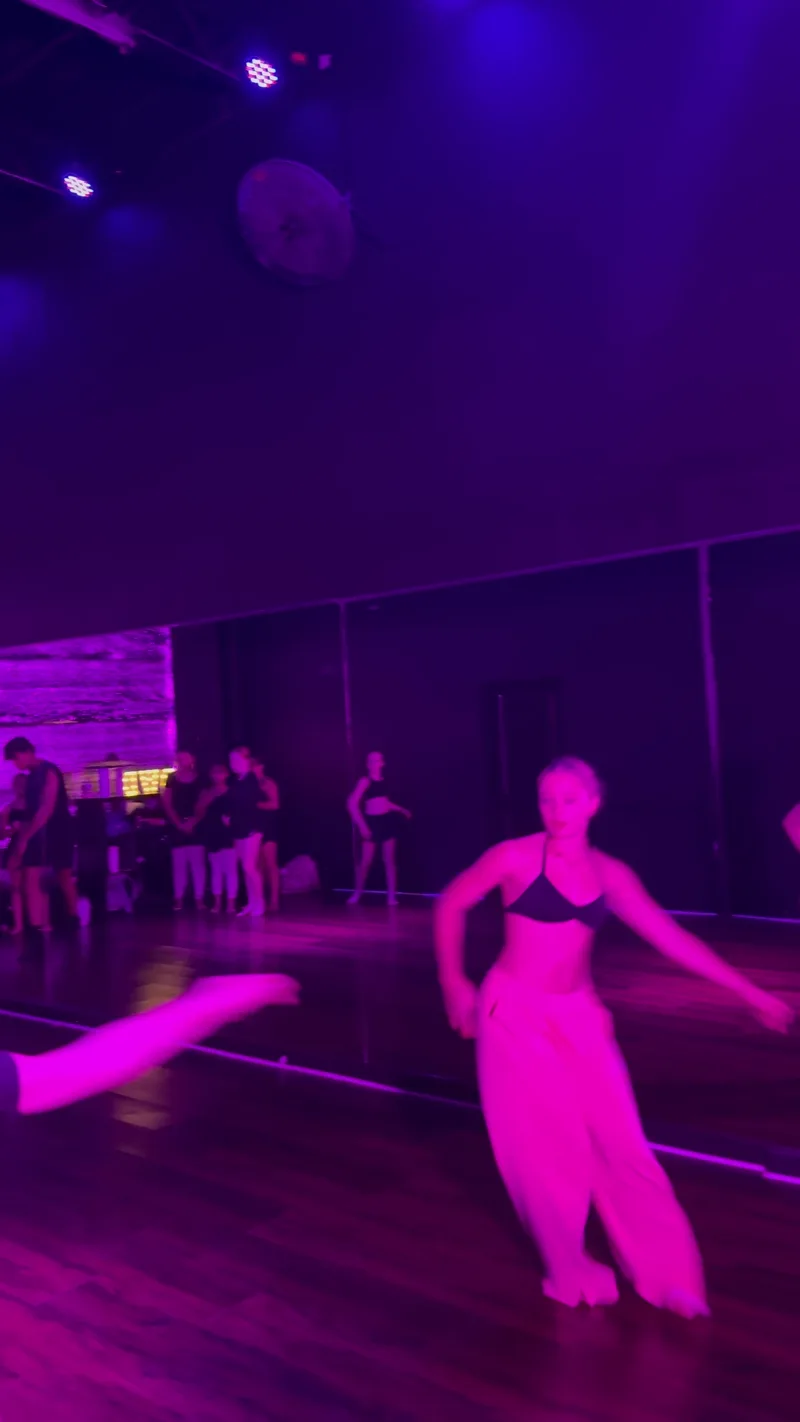
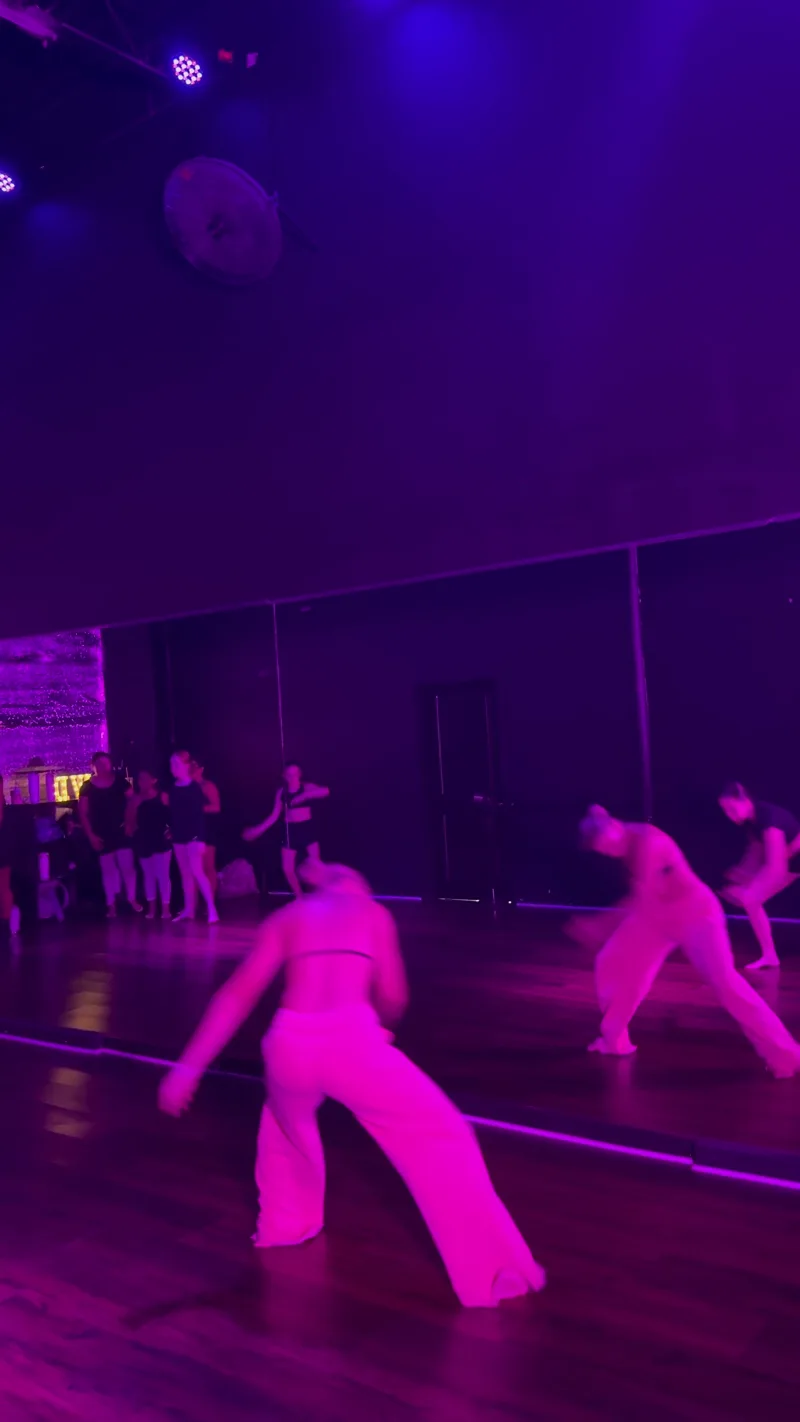
Polish the preseason story: fill layout holes, fix crops and landings
Signing day pairs Athena and Piper two-shots at 3:4 under the group
hero; sleepover pairs a poolside still with the party clip; week-one
still regrabbed sharper. Span-2 heroes keep natural aspect, clips loop,
rail jumps to Story and Cast land clear of the sticky nav, orphaned
sig-strip CSS removed.

diff --git a/index.html b/index.html
@@ -893,7 +893,7 @@
               <img src="images/photos/opt/story-si-trio-800.webp" alt="John, Evie and Daisy holding their First Trio certificates" loading="lazy" data-lightbox>
               <img src="images/photos/opt/story-si-group-800.webp" alt="The Summer Intensive class with Dixon, certificates in hand" loading="lazy" data-lightbox>
               <div class="ps-scene-video span2">
-                <video controls preload="none" playsinline poster="images/photos/opt/story-si-remi-poster.webp" aria-label="Remi's Summer Intensive showcase solo">
+                <video controls loop muted preload="none" playsinline poster="images/photos/opt/story-si-remi-poster.webp" aria-label="Remi's Summer Intensive showcase solo">
                   <source src="video/story-si-remi.mp4" type="video/mp4">
                   Your browser doesn't support embedded video.
                 </video>
@@ -918,7 +918,7 @@
               <img src="images/photos/opt/story-con-tilt-800.webp" alt="A dancer hits a full tilt extension at dwdCON" loading="lazy" data-lightbox>
               <img src="images/photos/opt/story-con-coach-800.webp" alt="Dixon coaching a young dancer at dwdCON" loading="lazy" data-lightbox>
               <div class="ps-scene-video">
-                <video controls preload="none" playsinline poster="images/photos/opt/story-con-tiltjumps-poster.webp" aria-label="Tilt jumps, last round of the day at dwdCON">
+                <video controls loop muted preload="none" playsinline poster="images/photos/opt/story-con-tiltjumps-poster.webp" aria-label="Tilt jumps, last round of the day at dwdCON">
                   <source src="video/story-con-tiltjumps.mp4" type="video/mp4">
                   Your browser doesn't support embedded video.
                 </video>
@@ -939,7 +939,8 @@
           <div class="ps-scene">
             <div class="ps-scene-media">
               <img class="span2" src="images/photos/opt/story-sign-group-1600.webp" srcset="images/photos/opt/story-sign-group-800.webp 800w, images/photos/opt/story-sign-group-1600.webp 1600w" sizes="(max-width: 768px) 100vw, 50vw" alt="All seventeen Season One dancers together on signing day" loading="lazy" data-lightbox>
-              <img class="span2" src="images/photos/opt/story-sign-first-1600.webp" srcset="images/photos/opt/story-sign-first-800.webp 800w, images/photos/opt/story-sign-first-1600.webp 1600w" sizes="(max-width: 768px) 100vw, 50vw" alt="Dixon with Athena, the first dancer to sign for Season One" loading="lazy" data-lightbox>
+              <img class="ar-34" src="images/photos/opt/story-sign-first-800.webp" srcset="images/photos/opt/story-sign-first-800.webp 800w, images/photos/opt/story-sign-first-1600.webp 1600w" sizes="(max-width: 768px) 50vw, 25vw" alt="Dixon with Athena, the first dancer to sign for Season One" loading="lazy" data-lightbox>
+              <img class="ar-34" src="images/photos/opt/story-sign-piper-800.webp" srcset="images/photos/opt/story-sign-piper-800.webp 800w, images/photos/opt/story-sign-piper-1600.webp 1600w" sizes="(max-width: 768px) 50vw, 25vw" alt="Dixon with Piper after she signed for Season One" loading="lazy" data-lightbox>
             </div>
             <div class="ps-scene-text">
               <div class="ps-scene-slate">
@@ -957,8 +958,9 @@
               <img class="span2" src="images/photos/opt/story-ko-pool-1600.webp" srcset="images/photos/opt/story-ko-pool-800.webp 800w, images/photos/opt/story-ko-pool-1600.webp 1600w" sizes="(max-width: 768px) 100vw, 50vw" alt="Marilynn on John's shoulders in the pool at the kickoff sleepover" loading="lazy" data-lightbox>
               <img src="images/photos/opt/story-ko-design-800.webp" alt="Dixon and dancers reviewing season designs around the table" loading="lazy" data-lightbox>
               <img src="images/photos/opt/story-ko-dinner-800.webp" alt="The company at dinner during the kickoff sleepover" loading="lazy" data-lightbox>
+              <img src="images/photos/opt/story-ko-poolside-800.webp" srcset="images/photos/opt/story-ko-poolside-800.webp 800w, images/photos/opt/story-ko-poolside-1600.webp 1600w" sizes="(max-width: 768px) 50vw, 25vw" alt="John and Marilynn poolside at the kickoff sleepover" loading="lazy" data-lightbox>
               <div class="ps-scene-video">
-                <video controls preload="none" playsinline poster="images/photos/opt/story-ko-party-poster.webp" aria-label="Pajama dance party at the kickoff sleepover">
+                <video controls loop muted preload="none" playsinline poster="images/photos/opt/story-ko-party-poster.webp" aria-label="Pajama dance party at the kickoff sleepover">
                   <source src="video/story-ko-party.mp4" type="video/mp4">
                   Your browser doesn't support embedded video.
                 </video>
@@ -980,7 +982,7 @@
             <div class="ps-scene-media">
               <img src="images/photos/opt/story-w1-contemp-800.webp" alt="Elite and Pro dancers in contemporary class, week one of Season One" loading="lazy" data-lightbox>
               <div class="ps-scene-video">
-                <video controls preload="none" playsinline poster="images/photos/opt/story-w1-contemp-poster.webp" aria-label="Contemporary class, Elite and Pro, week one of Season One">
+                <video controls loop muted preload="none" playsinline poster="images/photos/opt/story-w1-contemp-poster.webp" aria-label="Contemporary class, Elite and Pro, week one of Season One">
                   <source src="video/story-w1-contemp.mp4" type="video/mp4">
                   Your browser doesn't support embedded video.
                 </video>

diff --git a/css/story.css b/css/story.css
@@ -139,6 +139,8 @@
   gap: 10px;
 }
 #ps-story .ps-scene-media .span2 { grid-column: 1 / -1; }
+#ps-story .ps-scene-media img.span2 { height: auto; }
+#ps-story .ps-scene-media img.ar-34 { aspect-ratio: 3 / 4; }
 #ps-story .ps-scene-media img {
   width: 100%;
   height: 100%;
@@ -166,14 +168,6 @@
   margin: 8px 0 0;
 }
 
-/* ── Signature strip (Signing Day scene) ────────────────────────────── */
-  width: 110px;
-  height: auto;
-  aspect-ratio: auto;
-  border: 4px solid var(--ivory);
-  box-shadow: 0 6px 16px rgba(0, 0, 0, 0.35);
-  background: var(--ivory);
-}
 
 /* ═══════════════════════════════════════════════════════════════════════
    #ps-cast — the roster
@@ -285,3 +279,8 @@
 #ps-story .ps-scene--card p.ps-card-line { margin-left: auto !important; margin-right: auto !important; max-width: max-content !important; }
 #page-proseries #ps-cast h2 { color: var(--ivory) !important; }
 #page-proseries #ps-cast .ps-cast-lead, #page-proseries #ps-cast > p { color: var(--ivory-dim, #e8ddd0) !important; }
+
+/* Rail-jump landings: match the 160px scroll margin of every other target */
+#ps-story, #ps-cast { scroll-margin-top: 160px; }
+/* ar-34 must out-rank the 9/16 default that appears earlier with equal specificity */
+#ps-story .ps-scene-media img.ar-34:not(.span2) { aspect-ratio: 3 / 4; }
